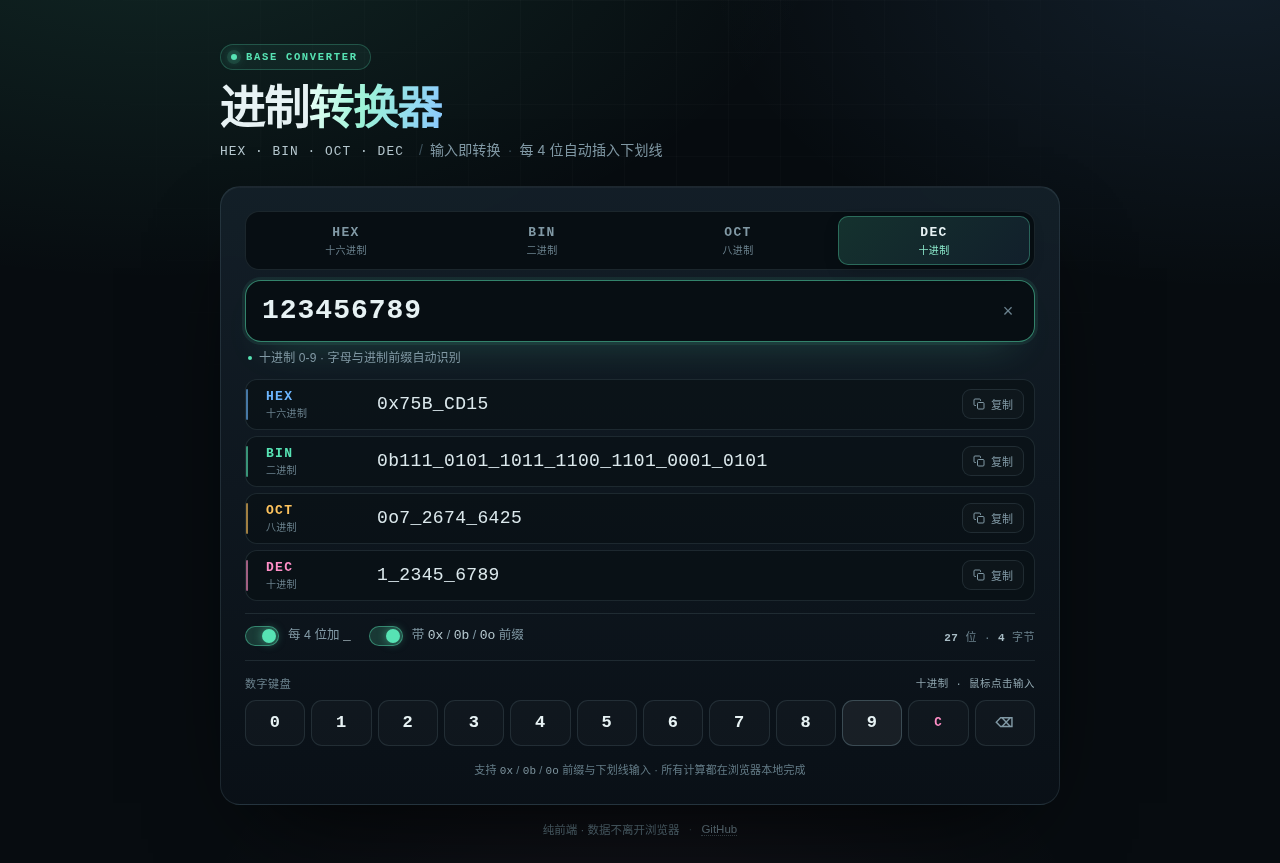
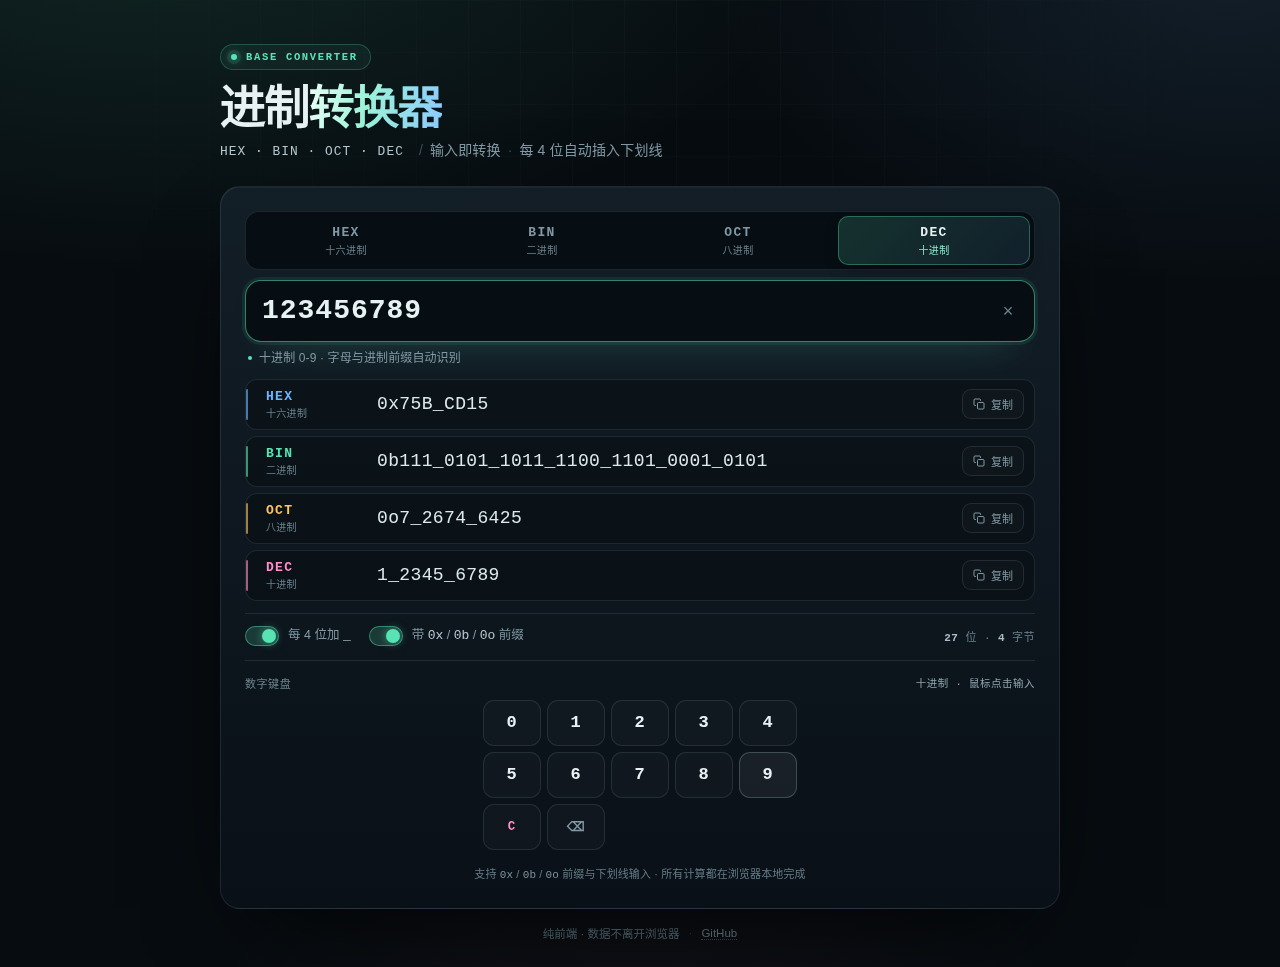
feat: 数字键盘改为固定列数网格布局（DEC 5列/HEX 6列/BIN 2列/OCT 4列），不再挤成一行或一列
- converter.js: 每个进制增加 columns 并导出 columnsFor()
- index.html: .pad 用 repeat(var(--pad-columns), 58px) 网格并居中，
  C/⌫ 排在数字后的剩余单元格
- test_converter.js: 新增 columnsFor 单元测试
- README: 更新键盘布局说明

diff --git a/index.html b/index.html
@@ -538,8 +538,10 @@
 
   .pad {
     display: grid;
-    grid-template-columns: repeat(auto-fill, minmax(58px, 1fr));
+    grid-template-columns: repeat(var(--pad-columns, 5), 58px);
     gap: 6px;
+    width: fit-content;
+    margin: 0 auto;
     touch-action: manipulation;
   }
 
@@ -587,7 +589,7 @@
   .pad button.fn.danger { color: var(--pink); }
 
   @media (max-width: 640px) {
-    .pad { grid-template-columns: repeat(auto-fill, minmax(44px, 1fr)); gap: 5px; }
+    .pad { grid-template-columns: repeat(var(--pad-columns, 5), 44px); gap: 5px; }
     .pad button { min-height: 44px; font-size: 15px; }
     .pad button.fn { font-size: 11px; }
   }
@@ -853,12 +855,21 @@
       if (!pad) return;
       if (typeof Core.keysFor !== 'function') return;
       var keys = Core.keysFor(state.base);
+      var columns = (typeof Core.columnsFor === 'function' ? Core.columnsFor(state.base) : 5);
+      pad.style.setProperty('--pad-columns', String(columns));
+
+      // Digit keys flow row by row; C and ⌫ fill the remaining cells of the
+      // last row (or get their own row when keys are a full multiple).
+      var cells = keys.concat(['C', '⌫']);
       var html = '';
-      keys.forEach(function (key) {
-        html += '<button type="button" data-key="' + key + '" aria-label="输入 ' + key + '">' + key + '</button>';
-      });
-      html += '<button type="button" class="fn danger" data-action="clear" aria-label="清空输入">C</button>';
-      html += '<button type="button" class="fn" data-action="back" aria-label="退格">⌫</button>';
+      for (var i = 0; i < cells.length; i += 1) {
+        var cell = cells[i];
+        var cls = cell === 'C' ? ' fn danger' : (cell === '⌫' ? ' fn' : '');
+        var action = cell === 'C' ? ' data-action="clear"' : (cell === '⌫' ? ' data-action="back"' : '');
+        var aria = cell === 'C' ? '清空输入' : (cell === '⌫' ? '退格' : '输入 ' + cell);
+        var keyAttr = cell === 'C' || cell === '⌫' ? '' : ' data-key="' + cell + '"';
+        html += '<button type="button" class="' + cls + '"' + keyAttr + action + ' aria-label="' + aria + '">' + cell + '</button>';
+      }
       pad.innerHTML = html;
       if (padHint) padHint.textContent = Core.BASES[state.base].label + ' · 鼠标点击输入';
     }

diff --git a/converter.js b/converter.js
@@ -26,7 +26,8 @@
       allowed: '0-9 A-F',
       pattern: /^[0-9a-fA-F]+$/,
       charPattern: /^[0-9a-fA-F]$/,
-      keys: ['0', '1', '2', '3', '4', '5', '6', '7', '8', '9', 'A', 'B', 'C', 'D', 'E', 'F']
+      keys: ['0', '1', '2', '3', '4', '5', '6', '7', '8', '9', 'A', 'B', 'C', 'D', 'E', 'F'],
+      columns: 6
     },
     BIN: {
       name: 'BIN',
@@ -37,7 +38,8 @@
       allowed: '0 1',
       pattern: /^[01]+$/,
       charPattern: /^[01]$/,
-      keys: ['0', '1']
+      keys: ['0', '1'],
+      columns: 2
     },
     OCT: {
       name: 'OCT',
@@ -48,7 +50,8 @@
       allowed: '0-7',
       pattern: /^[0-7]+$/,
       charPattern: /^[0-7]$/,
-      keys: ['0', '1', '2', '3', '4', '5', '6', '7']
+      keys: ['0', '1', '2', '3', '4', '5', '6', '7'],
+      columns: 4
     },
     DEC: {
       name: 'DEC',
@@ -59,7 +62,8 @@
       allowed: '0-9',
       pattern: /^[0-9]+$/,
       charPattern: /^[0-9]$/,
-      keys: ['0', '1', '2', '3', '4', '5', '6', '7', '8', '9']
+      keys: ['0', '1', '2', '3', '4', '5', '6', '7', '8', '9'],
+      columns: 5
     }
   };
 
@@ -277,6 +281,12 @@
     return def.keys.slice();
   }
 
+  /** Number of pad columns for a base (fixed grid, like a keypad). */
+  function columnsFor(base) {
+    var def = BASES[base] ? BASES[base] : BASES.DEC;
+    return def.columns || 5;
+  }
+
   return {
     BASE_ORDER: BASE_ORDER,
     BASES: BASES,
@@ -289,6 +299,7 @@
     format: format,
     bitLength: bitLength,
     convert: convert,
-    keysFor: keysFor
+    keysFor: keysFor,
+    columnsFor: columnsFor
   };
 });

diff --git a/test_converter.js b/test_converter.js
@@ -178,4 +178,12 @@ check('keysFor returns the pad keys for each base', () => {
   assert.strictEqual(C.keysFor('HEX') === C.keysFor('HEX'), false, 'returns a fresh array');
 });
 
+check('columnsFor returns a fixed grid column count per base', () => {
+  assert.strictEqual(C.columnsFor('DEC'), 5);
+  assert.strictEqual(C.columnsFor('HEX'), 6);
+  assert.strictEqual(C.columnsFor('BIN'), 2);
+  assert.strictEqual(C.columnsFor('OCT'), 4);
+  assert.strictEqual(C.columnsFor('BOGUS'), 5);
+});
+
 console.log('\nAll ' + passed + ' test groups passed.');

diff --git a/README.md b/README.md
@@ -10,7 +10,7 @@ HEX / BIN / OCT / DEC 四种进制实时互转，支持每 4 位自动插入 `_`
 
 - **输入即转换**：边输入边出结果，无需点「转换」按钮；四个结果紧贴在输入框下方，桌面端打开页面自动聚焦输入框。
 - **手机键盘友好**：聚焦输入框时自动把输入区滚到顶部，四行结果始终落在软键盘上方，不用手动滚动。
-- **鼠标数字键盘**：输入框下方有一块可点击的数字键盘，按键随当前进制变化（DEC 显示 0-9，HEX 额外显示 A-F，BIN 只有 0/1，OCT 为 0-7），支持退格与清空，点击即可输入。
+- **鼠标数字键盘**：输入框下方有一块可点击的数字键盘，按**固定列数网格**排列（DEC 5 列、HEX 6 列、BIN 2 列、OCT 4 列），按键随当前进制变化（DEC 显示 0-9，HEX 额外显示 A-F，BIN 只有 0/1，OCT 为 0-7），`C` 清空、`⌫` 退格，点击即可输入。
 - **智能识别**：输入 `0xFF`、`0b1010`、`0o777` 会自动切到对应进制；直接输入 `DEADBEEF` 这类带 A-F 的值也会自动按 HEX 处理。
 - **四种进制同屏显示**：十六进制（HEX）、二进制（BIN）、八进制（OCT）、十进制（DEC）。
 - **4 位分组**：默认每 4 位插入一个下划线，从最低位向左分组：
